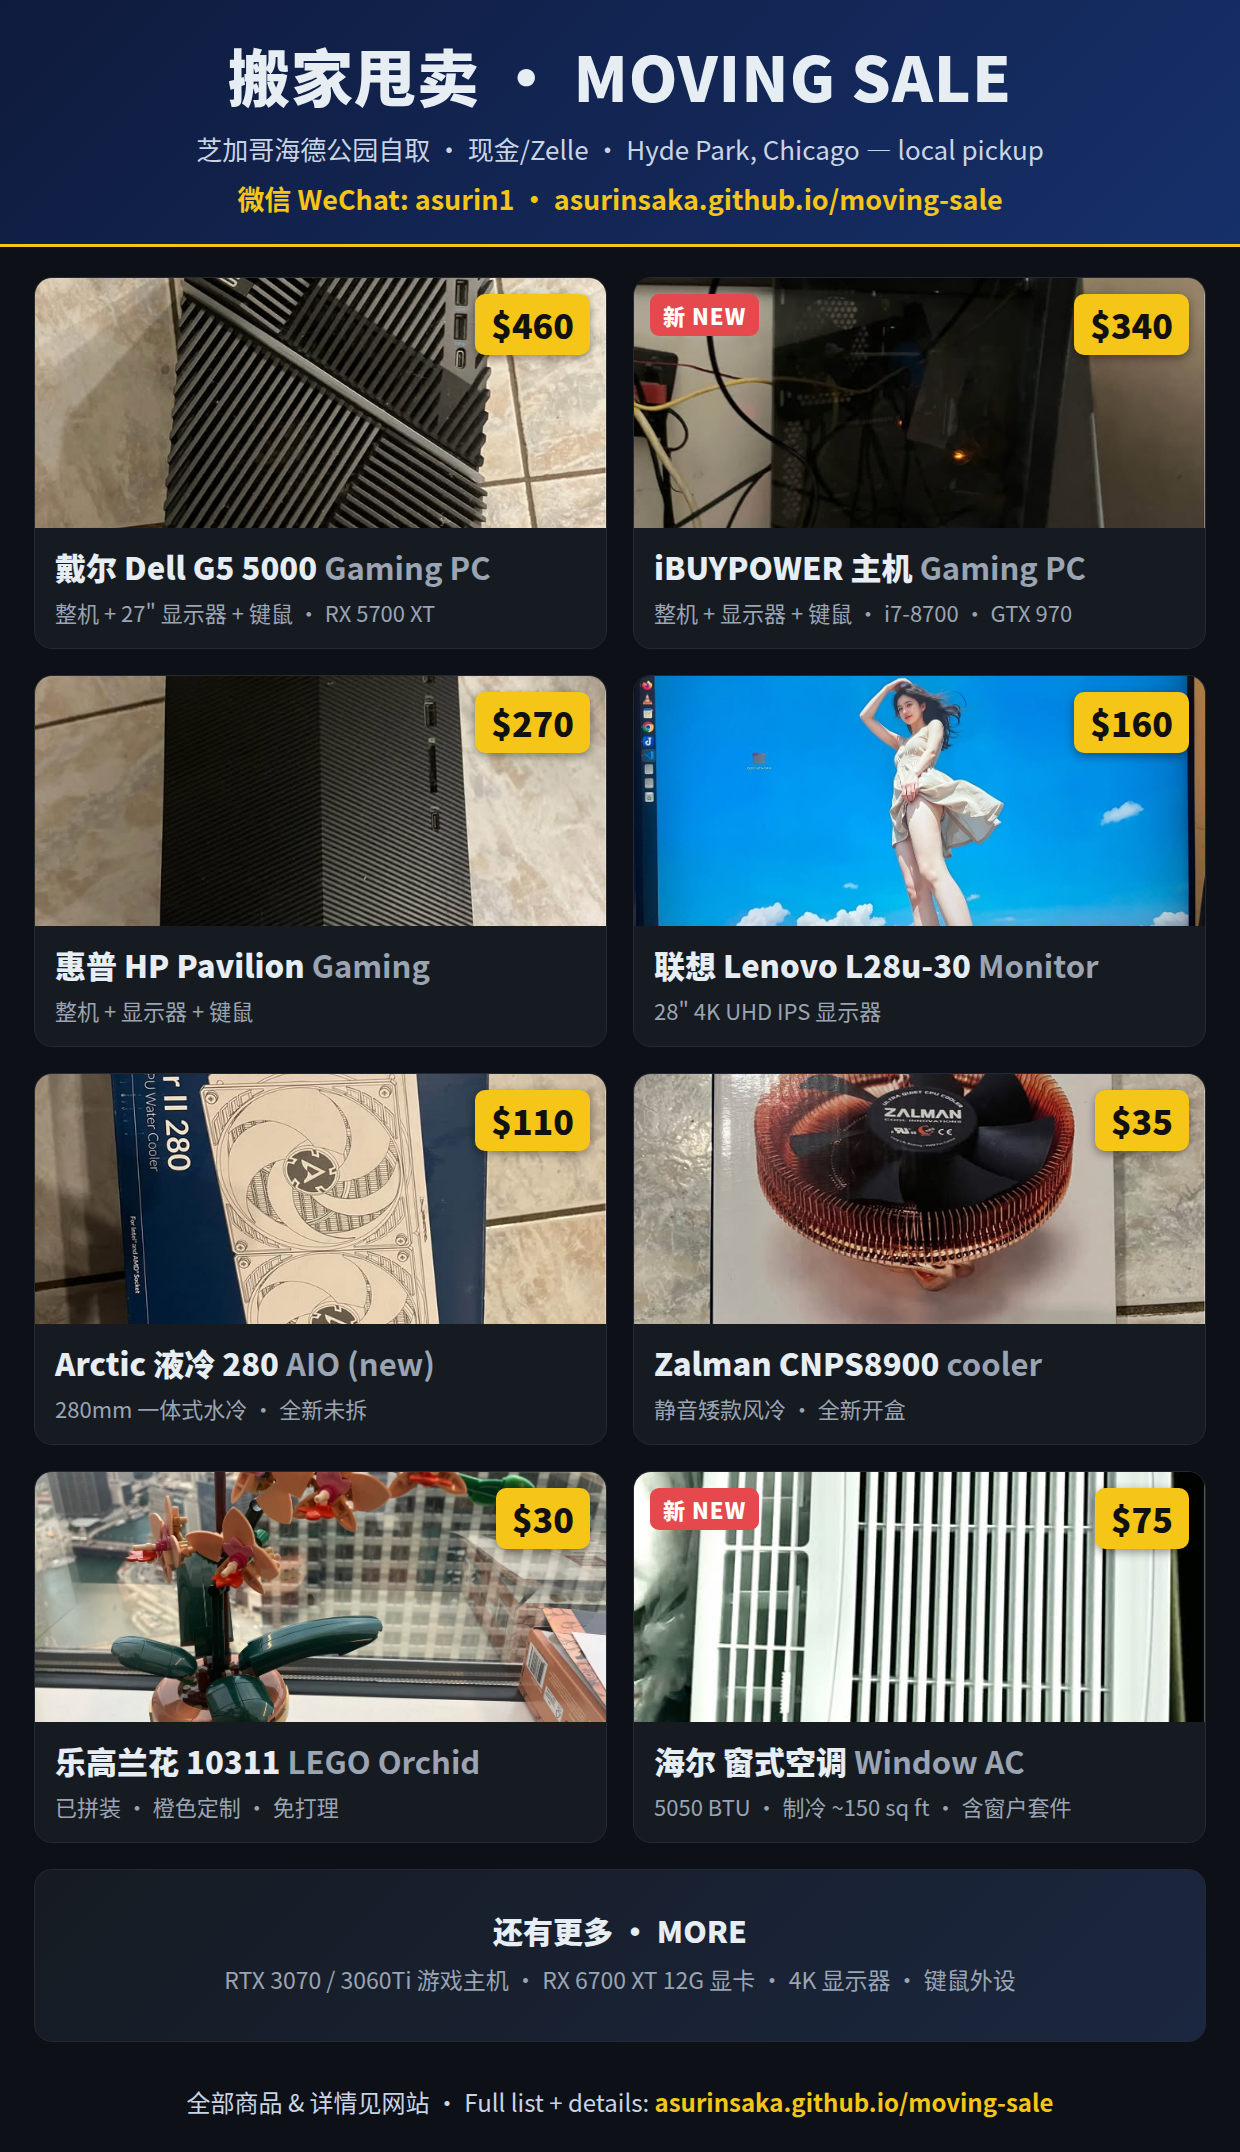
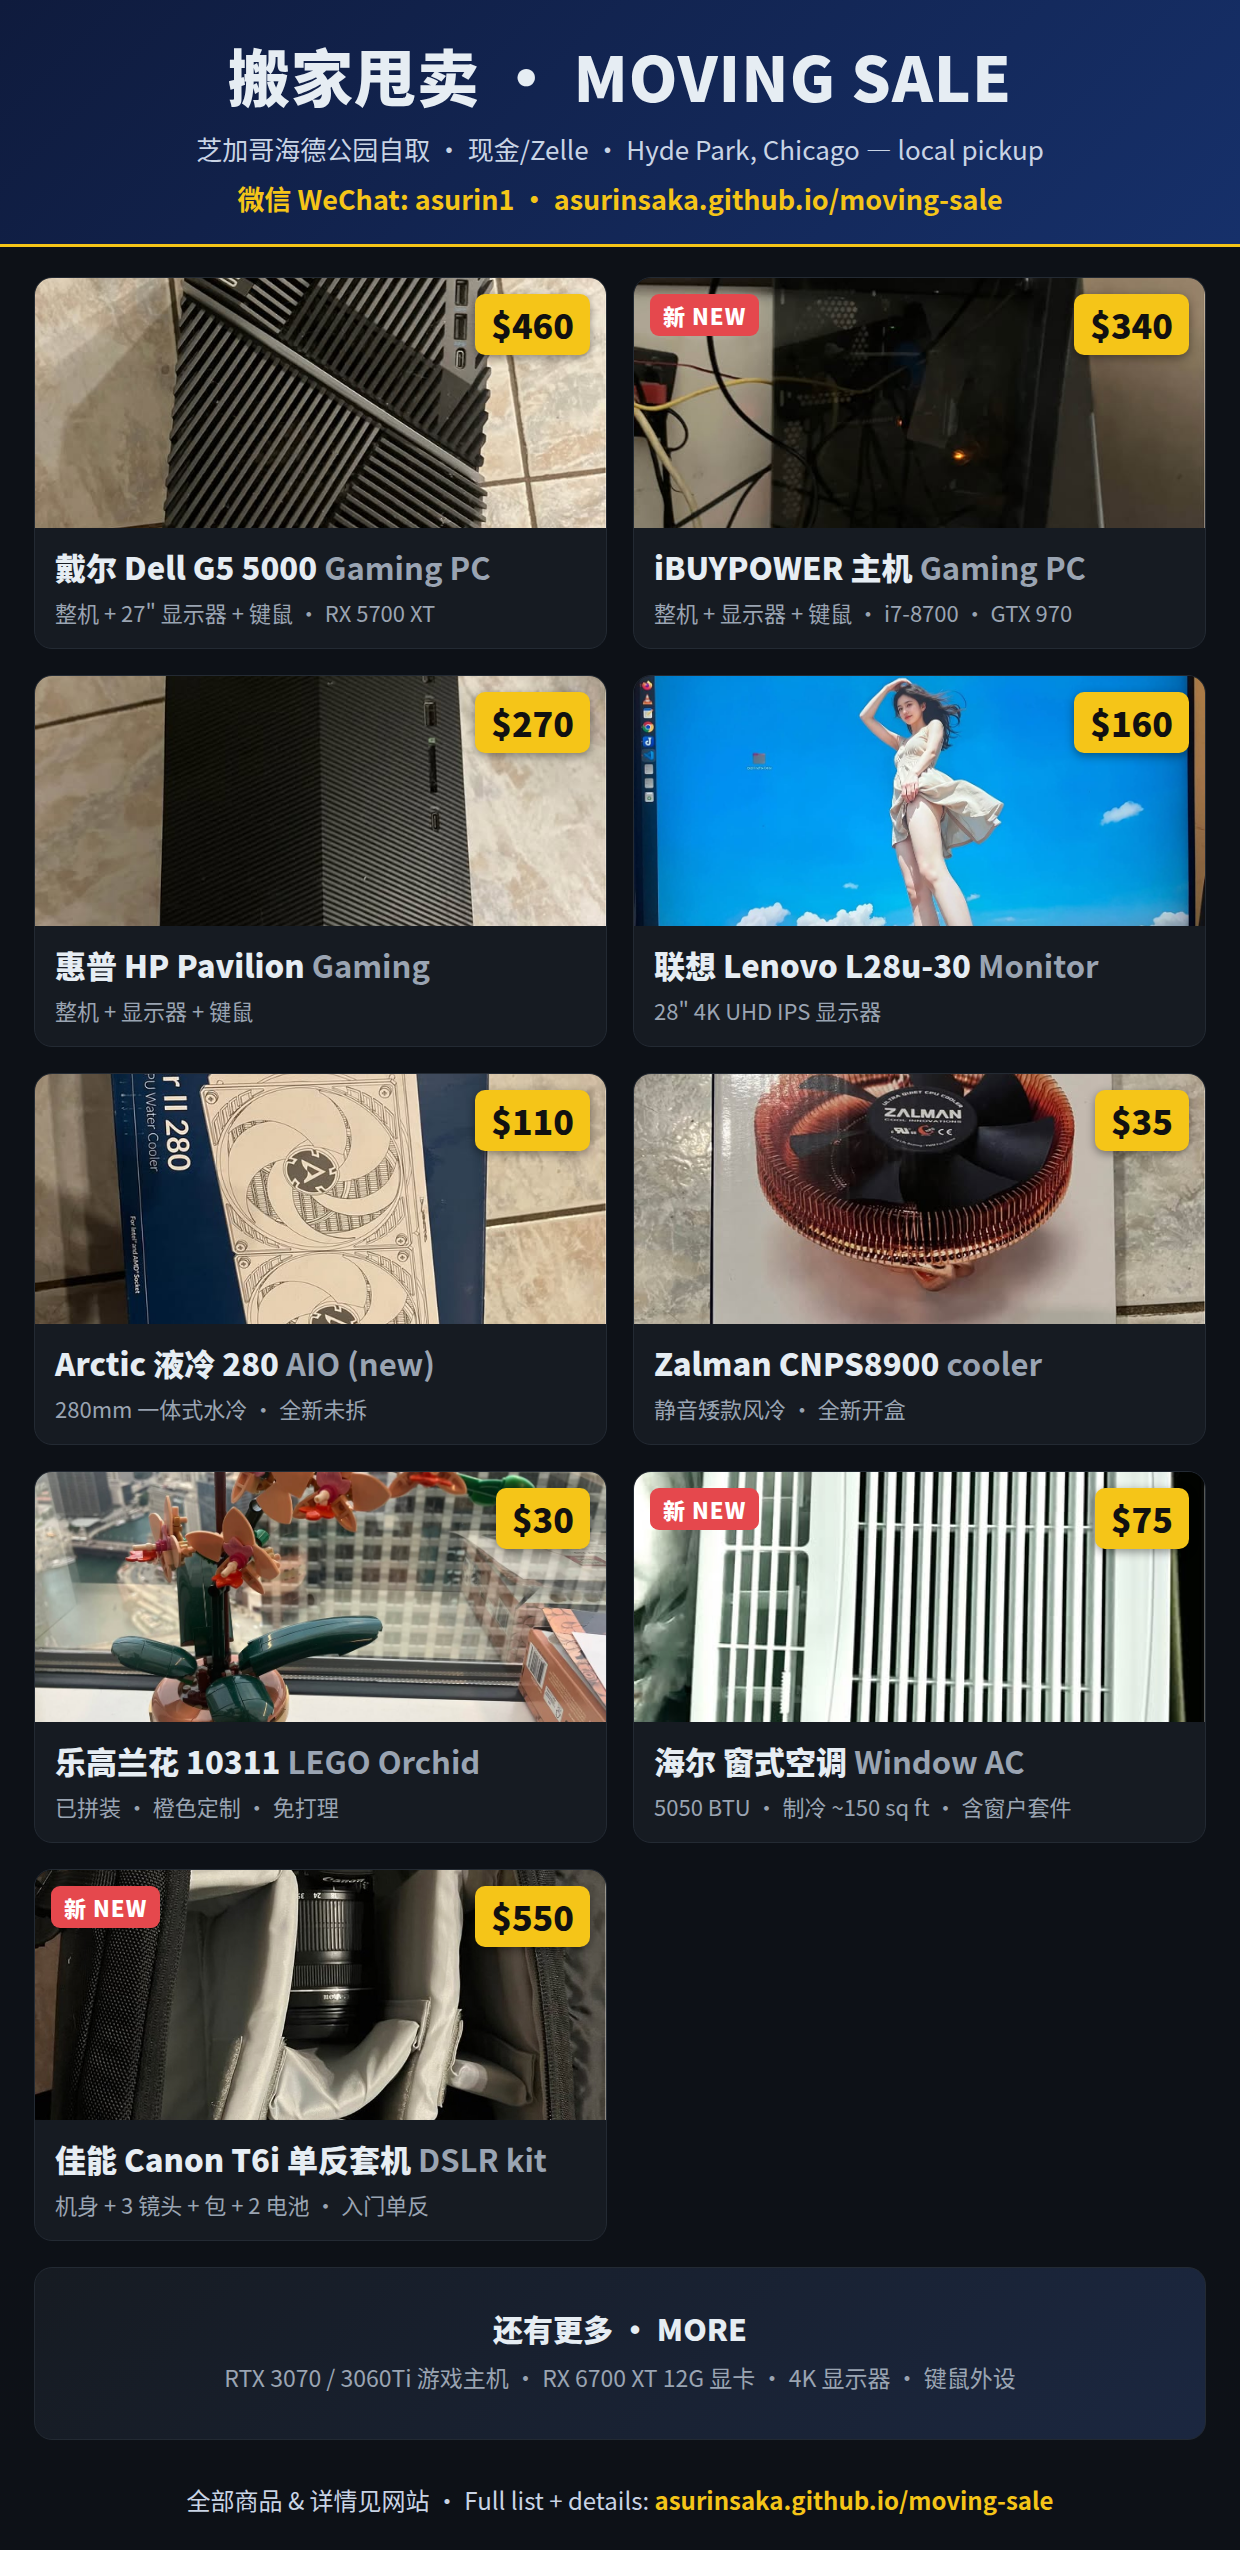
Add Canon T6i DSLR kit ($550) to the sale + poster
- collectibles/items.js: Canon EOS Rebel T6i kit (body + 3 lenses + bag + 2 batteries + charger)
- collectibles/images/canon-t6i-kit.jpg (new)
- poster.html: add Canon card; regenerate share/moving-sale-poster.png/.jpg (1240×2550)

diff --git a/collectibles/items.js b/collectibles/items.js
@@ -1,5 +1,10 @@
 // Collectibles & misc listing data (index.html) + detail pages (item.html).
 window.ITEMS = [
+ {id:"canon-t6i-kit", cat:"misc", zh:"佳能 EOS Rebel T6i 单反套机 (机身 + 3 镜头)", en:"Canon EOS Rebel T6i DSLR kit (body + 3 lenses)", price:550, photo:"images/canon-t6i-kit.jpg",
+  cond:"二手良好 · 测试可用 / used, tested working",
+  specs:["24MP APS-C 单反 · WiFi · 翻转触屏 / DSLR, Wi-Fi, flip screen","三镜头: EF-S 18-135 变焦 + EF 50/1.8 定焦 + EF-S 10-18 超广角","含相机包 · 2 块电池 + 充电器 / bag + 2 batteries + charger","整套出，适合入门 / complete beginner kit"],
+  note:"整套出 · 海德公园自取 / full kit, local pickup",
+  detail:"佳能 EOS Rebel T6i 单反整套：24MP APS-C 机身（WiFi、翻转触摸屏）+ 三支镜头（18-135mm 变焦、50mm f/1.8 人像定焦、10-18mm 超广角）+ 相机包 + 2 块电池和充电器。成色好，测试可用，适合入门/进阶。海德公园自取，可当面试机。Complete Canon EOS Rebel T6i DSLR kit — 24MP APS-C body (Wi-Fi, flip touchscreen) + three lenses (18-135mm zoom, 50mm f/1.8 portrait prime, 10-18mm ultra-wide) + camera bag + 2 batteries & charger. Good condition, tested working — great for someone getting into photography. Local pickup in Hyde Park; test before you buy."},
  {id:"lego-orchid-10311", cat:"misc", zh:"乐高兰花 (10311) 已拼装", en:"LEGO Icons Orchid (10311), built", price:30, photo:"images/lego-orchid-10311.jpg",
   cond:"已拼装 / 展示成色 built, display condition",
   specs:["乐高植物系列 · 608 颗粒 / Botanical, 608 pcs","橙色定制花 (原版为粉色) / custom ORANGE blooms","免浇水免打理 · 永不凋谢 / no water, no upkeep","约 30cm 高 ~12\" tall"],

diff --git a/poster.html b/poster.html
@@ -66,6 +66,10 @@
       <div class="body"><div class="name">海尔 窗式空调 <span class="en">Window AC</span></div>
       <div class="note">5050 BTU · 制冷 ~150 sq ft · 含窗户套件</div></div></div>
 
+    <div class="card"><div class="imgwrap"><img src="collectibles/images/canon-t6i-kit.jpg"><div class="newtag">新 NEW</div><div class="price">$550</div></div>
+      <div class="body"><div class="name">佳能 Canon T6i 单反套机 <span class="en">DSLR kit</span></div>
+      <div class="note">机身 + 3 镜头 + 包 + 2 电池 · 入门单反</div></div></div>
+
     <div class="card" style="grid-column:1/-1;display:flex;align-items:center;justify-content:center;background:linear-gradient(135deg,#161b22,#1b2740);padding:22px;">
       <div class="body" style="text-align:center">
         <div class="name" style="font-size:30px">还有更多 · MORE</div>
